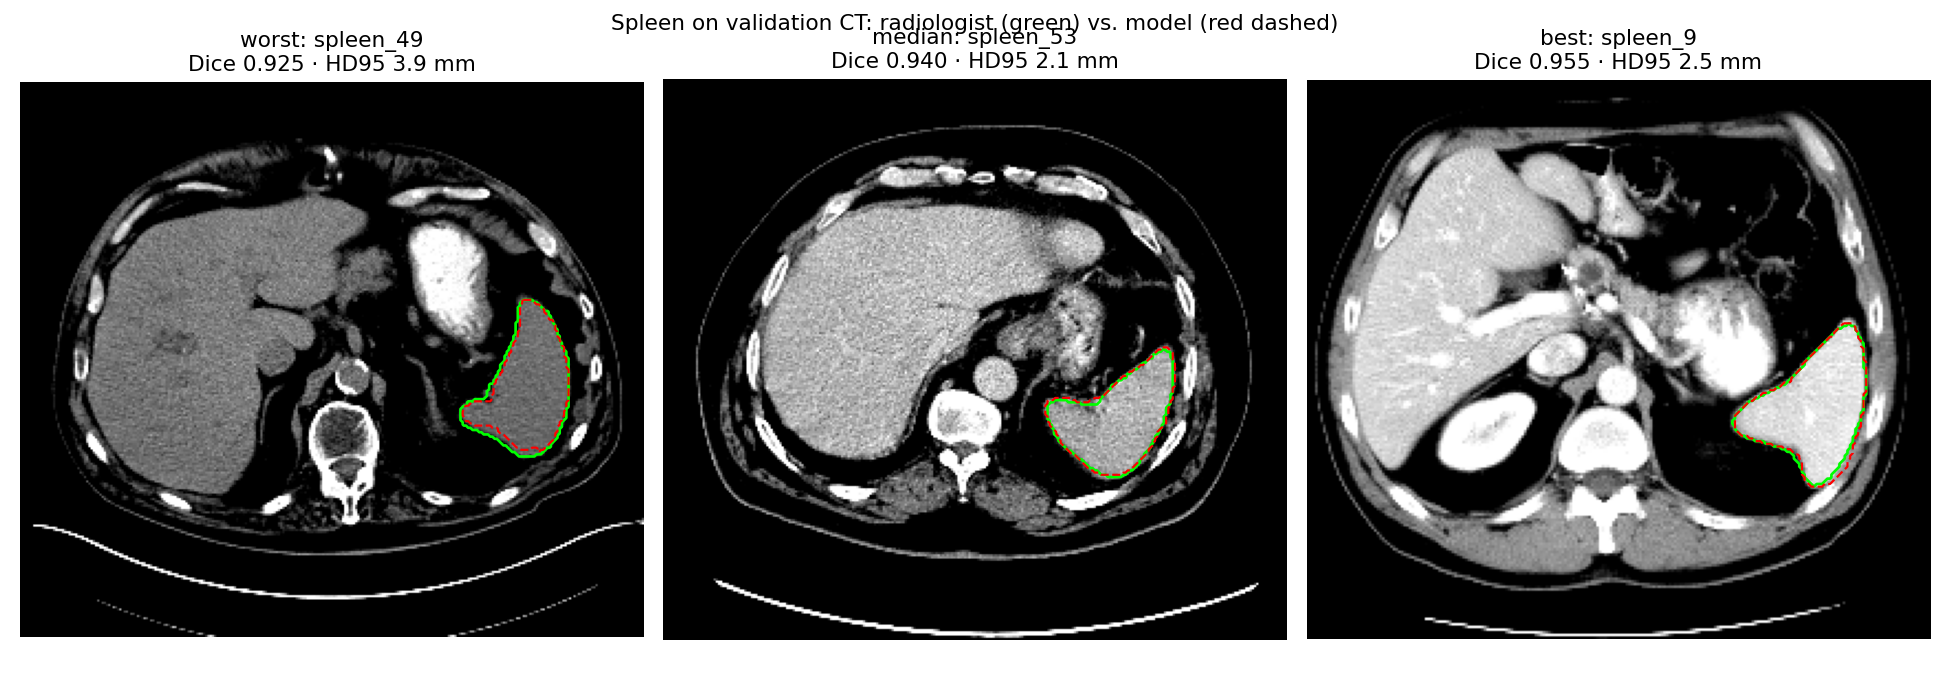
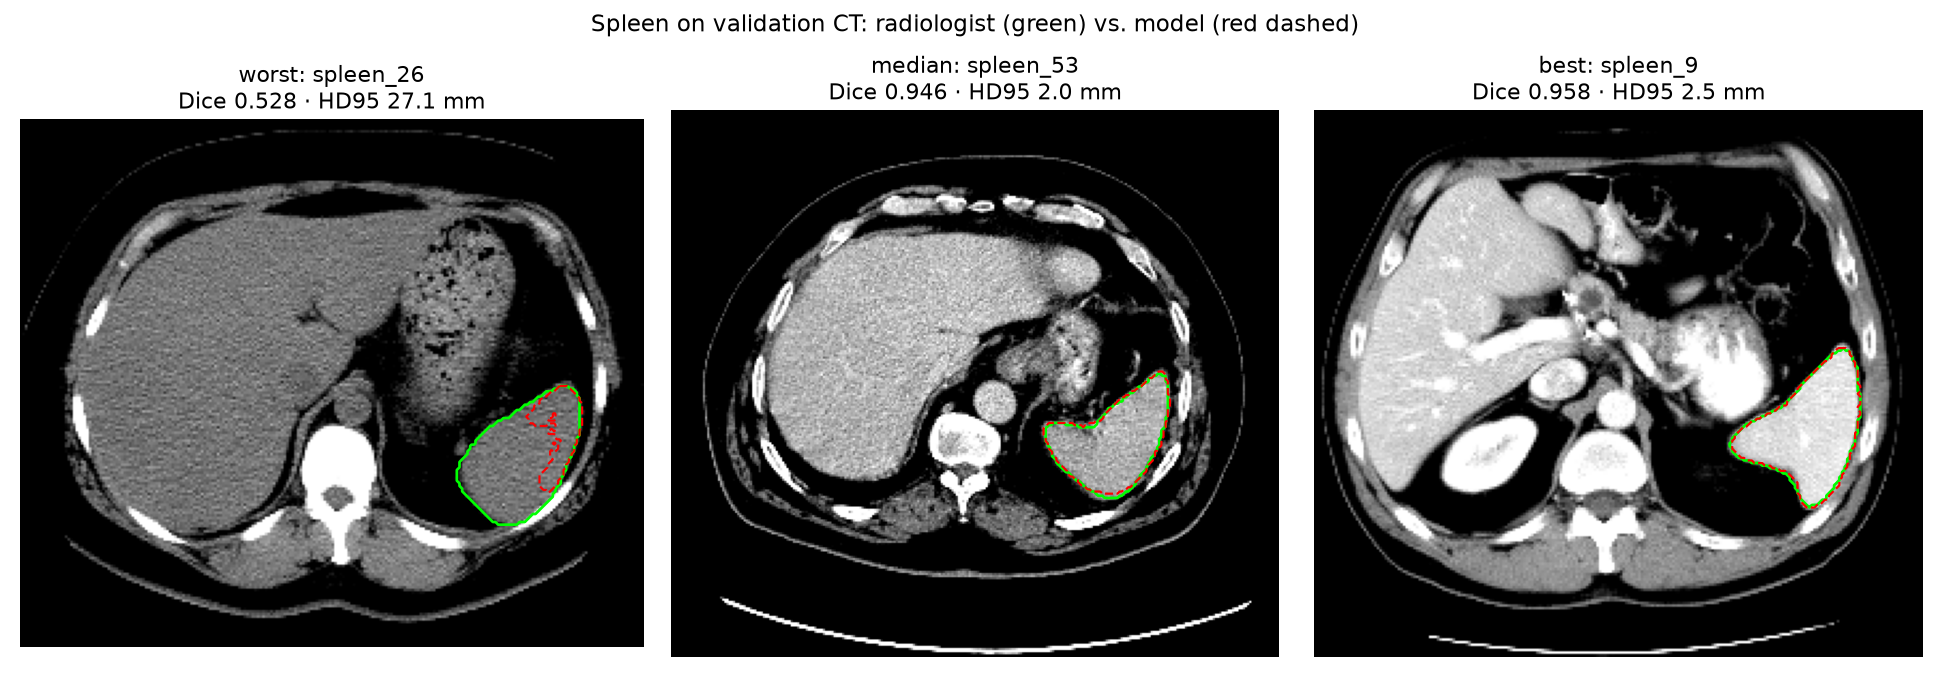
Spleen: report the final-epoch model (no checkpoint selection): Dice 0.885 / HD95 6.7 mm, median 0.944, spleen_26 fails at 0.53; the best-epoch 0.939 is kept only as a labelled, optimistic comparison
- the best epoch was selected on the same 8 validation CTs it was scored on
- add 5-fold cross-validation over all 41 labelled CTs (medimg.seg.cv_seg): fixed schedule, SWA of the second half
  with BatchNorm recomputed, no selection; kaggle_push --seg-cv; notebook run modes (full / eval_only / seg_cv)
- figures_seg --ckpt final|best; the learning curve marks the final (reported) and best (selected) epochs

diff --git a/src/medimg/seg/cv_seg.py b/src/medimg/seg/cv_seg.py
@@ -1,0 +1,167 @@
+"""5-fold cross-validation of the spleen 3D U-Net over all 41 labelled MSD Task09 CTs, with no checkpoint selection.
+
+    python -m medimg.seg.cv_seg            (Kaggle: `python scripts/kaggle_push.py --seg-cv`)
+
+Why: with a single 33/8 split, the "best epoch" is picked on the same 8 CTs it is scored on. That gave Dice 0.939, while
+the final epoch of the same run scored 0.885 (one case fell from 0.93 to 0.53). Here every CT is scored exactly once, by
+a model that never trained on it and was never selected on it:
+  * each fold trains for a fixed `epochs` (no validation during training);
+  * the scored weights are the stochastic weight average (SWA) of the second half of training, with BatchNorm
+    statistics recomputed on training patches afterwards, which is steadier than any single last epoch;
+  * largest-connected-component post-processing, the same as figures_seg.
+Writes reports/seg_cv_per_case.csv (one row per CT) and reports/seg_cv.json (mean, SD, median, bootstrap CI).
+A finished fold is saved to models/seg_cv_fold{k}.pt and skipped on re-run, so a killed session resumes.
+"""
+from __future__ import annotations
+
+import json
+import time
+
+import numpy as np
+import pandas as pd
+import torch
+from monai.apps import DecathlonDataset
+from monai.data import DataLoader, PersistentDataset
+from monai.data.utils import json_hashing
+from monai.inferers import sliding_window_inference
+from monai.losses import DiceCELoss
+from monai.metrics import compute_dice, compute_hausdorff_distance
+from monai.networks.utils import one_hot
+from torch.optim.swa_utils import AveragedModel
+
+from medimg import ROOT, load_params, seed_everything
+from medimg.seg.figures_seg import keep_largest
+from medimg.seg.train_seg import build_model, transforms
+
+
+def all_cases(sp: dict, seed: int) -> list[dict]:
+    """Every labelled case once: MONAI's training + validation sections partition the 41 labelled volumes."""
+    root = ROOT / sp["root_dir"]
+    root.mkdir(parents=True, exist_ok=True)
+    common = dict(root_dir=str(root), task=sp["task"], val_frac=0.2, seed=seed, cache_rate=0.0)
+    first = DecathlonDataset(section="training", download=not (root / sp["task"]).exists(), **common).data
+    cases = first + DecathlonDataset(section="validation", download=False, **common).data
+    return sorted(cases, key=lambda c: c["image"])
+
+
+def folds(n: int, k: int, seed: int) -> list[np.ndarray]:
+    return np.array_split(np.random.default_rng(seed).permutation(n), k)
+
+
+@torch.no_grad()
+def recompute_bn(model: torch.nn.Module, loader, device, batches: int) -> None:
+    """Averaged weights need BatchNorm statistics of their own (torch.optim.swa_utils.update_bn, for dict batches)."""
+    bns = [m for m in model.modules() if isinstance(m, torch.nn.modules.batchnorm._BatchNorm)]
+    for m in bns:
+        m.reset_running_stats()
+        m.momentum = None  # cumulative average over all batches below
+    model.train()
+    for i, batch in enumerate(loader):
+        if i >= batches:
+            break
+        model(batch["image"].to(device))
+    model.eval()
+
+
+def score(pred: torch.Tensor, y1: torch.Tensor, spacing) -> tuple[float, float]:
+    p1 = one_hot(pred, 2)
+    return (compute_dice(p1, y1, include_background=False).item(),
+            compute_hausdorff_distance(p1, y1, include_background=False, percentile=95, spacing=spacing).item())
+
+
+def run_fold(k: int, train_cases: list[dict], test_cases: list[dict], sp: dict, cv: dict, device) -> list[dict]:
+    amp = sp["amp"] and device.type == "cuda"
+    cache = ROOT / "data" / "processed" / "msd_cache"
+    train_ds = PersistentDataset(train_cases, transforms(sp, True), cache_dir=cache / "train", hash_transform=json_hashing)
+    test_ds = PersistentDataset(test_cases, transforms(sp, False), cache_dir=cache / "val", hash_transform=json_hashing)
+    train_dl = DataLoader(train_ds, batch_size=sp["batch_size"], shuffle=True, num_workers=sp["num_workers"])
+
+    model = build_model().to(device)
+    swa = AveragedModel(model)
+    loss_fn = DiceCELoss(to_onehot_y=True, softmax=True)
+    optimizer = torch.optim.AdamW(model.parameters(), lr=sp["lr"], weight_decay=1e-5)
+    scheduler = torch.optim.lr_scheduler.CosineAnnealingLR(optimizer, T_max=cv["epochs"])
+    scaler = torch.amp.GradScaler(enabled=amp)
+    swa_start = int(cv["epochs"] * cv["swa_start_frac"])
+    for epoch in range(cv["epochs"]):
+        model.train()
+        t0, total = time.time(), 0.0
+        for batch in train_dl:
+            x, y = batch["image"].to(device), batch["label"].to(device)
+            optimizer.zero_grad(set_to_none=True)
+            with torch.autocast(device.type, enabled=amp):
+                loss = loss_fn(model(x), y)
+            scaler.scale(loss).backward()
+            scaler.step(optimizer)
+            scaler.update()
+            total += loss.item()
+        scheduler.step()
+        if epoch >= swa_start:
+            swa.update_parameters(model)
+        if epoch % 25 == 0 or epoch == cv["epochs"] - 1:
+            print(json.dumps({"fold": k, "epoch": epoch, "train_loss": round(total / len(train_dl), 4),
+                              "epoch_sec": round(time.time() - t0, 1)}), flush=True)
+    recompute_bn(swa.module, train_dl, device, batches=cv["bn_batches"])
+
+    rows = []
+    with torch.no_grad():
+        for variant, net in (("swa", swa.module), ("final", model.eval())):
+            for item, case in zip(test_ds, test_cases):
+                x = item["image"][None].to(device).float()
+                y1 = one_hot(item["label"][None].to(device).long(), 2)
+                with torch.autocast(device.type, enabled=amp):
+                    raw = sliding_window_inference(x, sp["roi_size"], 4, net, overlap=0.5).argmax(1, keepdim=True)
+                pred = torch.from_numpy(keep_largest(raw[0, 0].cpu().numpy()))[None, None].to(device)
+                (dice_raw, hd_raw), (dice, hd95) = score(raw, y1, sp["pixdim"]), score(pred, y1, sp["pixdim"])
+                rows.append({"fold": k, "model": variant, "case": case["image"].split("/")[-1].split("\\")[-1].split(".")[0],
+                             "dice": round(dice, 4), "hd95_mm": round(hd95, 2),
+                             "dice_raw": round(dice_raw, 4), "hd95_raw_mm": round(hd_raw, 2)})
+    torch.save({"state_dict": swa.module.state_dict(), "rows": rows, "test_cases": [c["image"] for c in test_cases]},
+               ROOT / "models" / f"seg_cv_fold{k}.pt")
+    return rows
+
+
+def bootstrap_ci(x: np.ndarray, iters: int = 2000, seed: int = 0) -> list[float]:
+    rng = np.random.default_rng(seed)
+    means = [rng.choice(x, len(x)).mean() for _ in range(iters)]
+    return [round(float(np.percentile(means, 2.5)), 4), round(float(np.percentile(means, 97.5)), 4)]
+
+
+def main() -> None:
+    p = load_params()
+    sp, cv = p["segmentation"], p["segmentation_cv"]
+    seed_everything(p["seed"])
+    device = torch.device("cuda" if torch.cuda.is_available() else "cpu")
+    cases = all_cases(sp, p["seed"])
+    (ROOT / "models").mkdir(exist_ok=True)
+    rows = []
+    for k, test_idx in enumerate(folds(len(cases), cv["folds"], p["seed"])):
+        done = ROOT / "models" / f"seg_cv_fold{k}.pt"
+        if done.exists():
+            print(f"fold {k}: already done, reusing {done.name}")
+            rows += torch.load(done, map_location="cpu", weights_only=False)["rows"]
+            continue
+        test = set(test_idx.tolist())
+        rows += run_fold(k, [c for i, c in enumerate(cases) if i not in test], [cases[i] for i in sorted(test)],
+                         sp, cv, device)
+
+    df = pd.DataFrame(rows)
+    out = ROOT / "reports"
+    out.mkdir(exist_ok=True)
+    df.to_csv(out / "seg_cv_per_case.csv", index=False)
+    summary = {"n_cases": int(df[df.model == "swa"].shape[0]), "folds": cv["folds"], "epochs_per_fold": cv["epochs"],
+               "selection": "none (fixed schedule; SWA of the second half, BN recomputed)",
+               "postprocessing": "largest connected component"}
+    for variant, g in df.groupby("model"):
+        d = g.dice.to_numpy()
+        summary[variant] = {"dice_mean": round(float(d.mean()), 4), "dice_sd": round(float(d.std(ddof=1)), 4),
+                            "dice_median": round(float(np.median(d)), 4), "dice_min": round(float(d.min()), 4),
+                            "dice_ci95": bootstrap_ci(d), "hd95_mm_median": round(float(g.hd95_mm.median()), 2),
+                            "dice_raw_mean": round(float(g.dice_raw.mean()), 4),
+                            "cases_below_0.9": int((d < 0.9).sum())}
+    (out / "seg_cv.json").write_text(json.dumps(summary, indent=2))
+    print(json.dumps(summary, indent=2))
+
+
+if __name__ == "__main__":
+    main()

diff --git a/src/medimg/seg/figures_seg.py b/src/medimg/seg/figures_seg.py
@@ -1,6 +1,10 @@
 """Figures for the spleen model: learning curve and predicted vs. radiologist outlines on validation CTs.
 
-    python -m medimg.seg.figures_seg       (after train_seg; reads models/seg_unet3d.pt and reports/seg_history.csv)
+    python -m medimg.seg.figures_seg               final-epoch model (models/seg_last.pt): the headline number
+    python -m medimg.seg.figures_seg --ckpt best   best-validation-epoch model (models/seg_unet3d.pt), *_best outputs
+
+Why the final epoch is the headline: the best epoch is chosen on these same 8 validation CTs, so its score is biased
+upwards (selection on the evaluation set). The fixed 600-epoch schedule never looks at them.
 
 Per-case Dice/HD95 go to reports/seg_per_case.csv so the worst case can be discussed, not just the mean.
 Each case is scored twice: the raw argmax and after keeping only the largest connected component (the spleen is one
@@ -8,6 +12,7 @@ organ, so any separate blob is a false positive). HD95 is very sensitive to such
 """
 from __future__ import annotations
 
+import argparse
 import json
 from pathlib import Path
 
@@ -42,20 +47,27 @@ def keep_largest(mask: np.ndarray) -> np.ndarray:
 
 
 def learning_curve(history: pd.DataFrame) -> None:
+    """Validation Dice per epoch, marking the final epoch (reported) and the best epoch (selected, optimistic)."""
     fig, ax = plt.subplots(1, 2, figsize=(11, 4))
     ax[0].plot(history.epoch, history.train_loss)
     ax[0].set(xlabel="epoch", ylabel="Dice + CE loss", title="Training loss")
     val = history.dropna(subset=["val_dice"])
     ax[1].plot(val.epoch, val.val_dice, marker="o", ms=3)
-    best = val.loc[val.val_dice.idxmax()]
-    ax[1].axvline(best.epoch, color="grey", ls="--", lw=1)
-    ax[1].set(xlabel="epoch", ylabel="Dice", ylim=(0, 1), title=f"Validation Dice (best {best.val_dice:.3f} @ {int(best.epoch)})")
+    best, last = val.loc[val.val_dice.idxmax()], val.iloc[-1]
+    ax[1].axvline(best.epoch, color="grey", ls="--", lw=1, label=f"best {best.val_dice:.3f} @ {int(best.epoch)} (selected)")
+    ax[1].axvline(last.epoch, color="black", lw=1, label=f"final {last.val_dice:.3f} @ {int(last.epoch)} (reported)")
+    ax[1].legend(loc="lower right", fontsize=8)
+    ax[1].set(xlabel="epoch", ylabel="Dice (raw, no post-processing)", ylim=(0, 1), title="Validation Dice")
     fig.tight_layout()
     fig.savefig(FIG / "seg_learning_curve.png", dpi=150)
     plt.close(fig)
 
 
 def main() -> None:
+    ap = argparse.ArgumentParser()
+    ap.add_argument("--ckpt", choices=["final", "best"], default="final")
+    args = ap.parse_args()
+    suffix = "" if args.ckpt == "final" else "_best"
     p = load_params()
     sp = p["segmentation"]
     device = torch.device("cuda" if torch.cuda.is_available() else "cpu")
@@ -63,7 +75,12 @@ def main() -> None:
     learning_curve(pd.read_csv(ROOT / "reports" / "seg_history.csv"))
 
     model = build_model().to(device).eval()
-    model.load_state_dict(torch.load(ROOT / "models" / "seg_unet3d.pt", map_location=device)["state_dict"])
+    if args.ckpt == "final":  # the resume checkpoint train_seg writes after every epoch; after training = last epoch
+        state = torch.load(ROOT / "models" / "seg_last.pt", map_location=device, weights_only=False)
+        model.load_state_dict(state["model"])
+        print(f"final-epoch model: epoch {state['epoch']}")
+    else:
+        model.load_state_dict(torch.load(ROOT / "models" / "seg_unet3d.pt", map_location=device)["state_dict"])
     split = DecathlonDataset(str(ROOT / sp["root_dir"]), sp["task"], "validation", download=False,
                              val_frac=0.2, seed=p["seed"], cache_rate=0.0).data
     ds = PersistentDataset(split, transforms(sp, False), cache_dir=ROOT / "data" / "processed" / "msd_cache" / "val",
@@ -92,12 +109,13 @@ def main() -> None:
             panels.append((rows[-1], img[..., z], gt[..., z], pr[..., z]))
 
     per_case = pd.DataFrame(rows).sort_values("dice")
-    per_case.to_csv(ROOT / "reports" / "seg_per_case.csv", index=False)
+    per_case.to_csv(ROOT / "reports" / f"seg_per_case{suffix}.csv", index=False)
     print(per_case.to_string(index=False))
     summary = {k: round(float(per_case[k].mean()), 4) for k in ("dice", "hd95_mm", "dice_raw", "hd95_raw_mm")}
     summary |= {"dice_min": float(per_case.dice.min()), "n_cases": len(per_case),
-                "postprocessing": "largest connected component"}
-    (ROOT / "reports" / "seg_postproc.json").write_text(json.dumps(summary, indent=2))
+                "postprocessing": "largest connected component",
+                "checkpoint": "final epoch (no selection)" if args.ckpt == "final" else "best validation epoch (optimistic)"}
+    (ROOT / "reports" / f"seg_postproc{suffix}.json").write_text(json.dumps(summary, indent=2))
     print(json.dumps(summary))
 
     # Best, median and worst validation case, so the figure is honest about failures too.
@@ -116,7 +134,7 @@ def main() -> None:
         ax.axis("off")
     fig.suptitle("Spleen on validation CT: radiologist (green) vs. model (red dashed)", fontsize=13)
     fig.tight_layout(rect=(0, 0, 1, 0.93))  # keep the suptitle clear of the panel titles
-    fig.savefig(FIG / "seg_examples.png", dpi=130)
+    fig.savefig(FIG / f"seg_examples{suffix}.png", dpi=130)
     plt.close(fig)
 
 

diff --git a/scripts/kaggle_push.py b/scripts/kaggle_push.py
@@ -8,6 +8,7 @@ kernel version.
     python scripts/kaggle_push.py            # upload source + start the run
     python scripts/kaggle_push.py --status   # check the run
     python scripts/kaggle_push.py --eval-only  # re-evaluate models/classifier.pt, no training
+    python scripts/kaggle_push.py --seg-cv     # spleen 5-fold cross-validation only
     python scripts/kaggle_push.py --log      # print the run log
     python scripts/kaggle_push.py --fetch    # download outputs to kaggle_out/
 
@@ -73,14 +74,18 @@ def push_checkpoint(api, user, stage):
     push_dataset(api, user, MODELS_SLUG, "aiml02 released checkpoint", stage, "classifier.pt")
 
 
-def push_kernel(api, user, stage, eval_only=False):
+def push_kernel(api, user, stage, mode="full"):
     nb = stage / "kaggle_train.ipynb"
-    nb.write_bytes((ROOT / "notebooks" / "kaggle_train.ipynb").read_bytes())
+    text = (ROOT / "notebooks" / "kaggle_train.ipynb").read_text(encoding="utf-8")
+    marker = "os.environ['AIML02_MODE'] = 'full'"
+    if marker not in text:
+        raise SystemExit("notebook has no AIML02_MODE cell")
+    nb.write_text(text.replace(marker, f"os.environ['AIML02_MODE'] = '{mode}'"), encoding="utf-8")
     (stage / "kernel-metadata.json").write_text(json.dumps({
         "id": f"{user}/{KERNEL_SLUG}", "title": KERNEL_SLUG, "code_file": nb.name,
         "language": "python", "kernel_type": "notebook", "is_private": True,
         "enable_gpu": True, "enable_internet": True,
-        "dataset_sources": [f"{user}/{SRC_SLUG}"] + ([f"{user}/{MODELS_SLUG}"] if eval_only else []),
+        "dataset_sources": [f"{user}/{SRC_SLUG}"] + ([f"{user}/{MODELS_SLUG}"] if mode == "eval_only" else []),
         "competition_sources": [COMPETITION],
     }))
     resp = api.kernels_push(str(stage))
@@ -107,8 +112,11 @@ def main():
     ap.add_argument("--status", action="store_true")
     ap.add_argument("--fetch", action="store_true")
     ap.add_argument("--log", action="store_true", help="print the run log")
-    ap.add_argument("--eval-only", action="store_true",
-                    help="upload models/classifier.pt and only re-run data prep + evaluation (no training)")
+    modes = ap.add_mutually_exclusive_group()
+    modes.add_argument("--eval-only", action="store_true",
+                       help="upload models/classifier.pt and only re-run data prep + evaluation (no training)")
+    modes.add_argument("--seg-cv", action="store_true",
+                       help="only the spleen 5-fold cross-validation (medimg.seg.cv_seg); no classifier")
     args = ap.parse_args()
 
     api = KaggleApi()
@@ -129,7 +137,8 @@ def main():
             push_source(api, user, Path(src))
             if args.eval_only:
                 push_checkpoint(api, user, Path(mdl))
-            push_kernel(api, user, Path(ker), args.eval_only)
+            mode = "eval_only" if args.eval_only else "seg_cv" if args.seg_cv else "full"
+            push_kernel(api, user, Path(ker), mode)
 
 
 if __name__ == "__main__":

diff --git a/tests/test_core.py b/tests/test_core.py
@@ -140,3 +140,20 @@ def test_checkpoint_roundtrip_with_numpy_metric(tmp_path):
     save_checkpoint(model, 64, tmp_path / "c.pt", val_auroc=np.float64(0.89), epoch=np.int64(7))
     _, ckpt = load_checkpoint(tmp_path / "c.pt")
     assert ckpt["val_auroc"] == pytest.approx(0.89) and type(ckpt["epoch"]) is int
+
+
+def test_cv_folds_partition_and_bn_recompute():
+    from medimg.seg.cv_seg import bootstrap_ci, folds, recompute_bn
+
+    parts = folds(41, 5, seed=0)
+    assert sorted(i for p in parts for i in p.tolist()) == list(range(41)) and len(parts) == 5
+
+    # Averaged weights get BatchNorm statistics recomputed from (dict) training batches.
+    net = torch.nn.Sequential(torch.nn.Conv3d(1, 2, 1), torch.nn.BatchNorm3d(2))
+    loader = [{"image": torch.full((2, 1, 4, 4, 4), 3.0) + torch.randn(2, 1, 4, 4, 4) * 0.1} for _ in range(5)]
+    recompute_bn(net, loader, "cpu", batches=5)
+    bn = net[1]
+    assert not net.training and bn.momentum is None and int(bn.num_batches_tracked) == 5
+
+    lo, hi = bootstrap_ci(np.array([0.9, 0.92, 0.95, 0.5, 0.94]))
+    assert 0.5 <= lo < hi <= 0.95

diff --git a/docs/MODEL_CARD.md b/docs/MODEL_CARD.md
@@ -83,11 +83,20 @@ Evaluated with sliding-window inference using Dice and HD95. Post-processing kee
 since the spleen is a single organ. Raw and post-processed scores are both reported (`reports/seg_postproc.json`,
 `reports/seg_per_case.csv`), because a few distant false-positive blobs inflate HD95 by tens of millimetres.
 
-**Results (8 validation CTs):** trained for 600 epochs on a Kaggle T4 (best epoch 224), it reaches Dice **0.939** and HD95
-**3.2 mm** after post-processing (raw 0.930 / 22.6 mm). Every case scores at least 0.925. The same code trained for 200 epochs
-on a 4 GB laptop GTX 1650 reached 0.912 / 6.1 mm with a worst case of 0.770 (`reports/seg_laptop_200ep/`), so the longer
-schedule mostly fixed the hardest case. Post-processing matters most for HD95: on spleen_53 it removes a distant
-false-positive blob and takes HD95 from 155 mm to 2.1 mm.
+**Results (8 validation CTs, final epoch, no checkpoint selection):** after 600 epochs on a Kaggle T4, mean Dice
+**0.885** and HD95 **6.7 mm** after post-processing (raw 0.881 / 25.7 mm). The median is 0.944 and 6 of 8 CTs score at
+least 0.94, but spleen_26 fails at 0.53 and spleen_49 reaches 0.86 (`reports/seg_per_case.csv`).
+
+**Why the final epoch and not the best one:** the best of the 120 validation checkpoints (epoch 224) scores 0.939, with
+spleen_26 at 0.93 (`reports/seg_postproc_best.json`). That checkpoint was chosen *on these same 8 CTs*, so its score is
+biased upwards. The gap between 0.939 and 0.885, and one case swinging from 0.93 to 0.53 between epochs, show that a single
+8-case split cannot support a precise number either way. **5-fold cross-validation** (`medimg.seg.cv_seg`) therefore scores
+every one of the 41 labelled CTs exactly once, with a model that never trained on it, at a fixed schedule with
+weight averaging (SWA) and no selection. Its mean ± SD will replace this paragraph's numbers.
+
+Post-processing matters most for HD95: on spleen_53 it removes a distant false-positive blob and takes HD95 from 154 mm to
+2.0 mm. A 200-epoch run on a 4 GB laptop GTX 1650 is kept for reference in `reports/seg_laptop_200ep/` (best-epoch
+selection, so optimistic in the same way).
 
 **Context:** MONAI's reference bundle for this task reports a mean Dice of about 0.96 on its own split. The splits differ,
 so the numbers are not directly comparable, and with 8 validation volumes one case moves the mean by about 0.01.

diff --git a/README.md b/README.md
@@ -28,7 +28,7 @@ released classifier without retraining it: `python scripts/kaggle_push.py --eval
 | ECE before → after temperature scaling | 0.073 → 0.071 (T = 1.29; the model was already close to calibrated) |
 | Grad-CAM pointing game (hit inside radiologist box) | 54 % of positive test images (mean IoU 0.24) |
 | Shortcut check: AUROC from view / view+sex+age alone (no pixels) | 0.707 / 0.725, so the image adds about +0.16 AUROC over metadata |
-| Spleen Dice / HD95 (mm), 8 validation CTs, largest-component post-processing | **0.939 / 3.2** (raw 0.930 / 22.6; worst case 0.925). 600 epochs on a Kaggle T4, best epoch 224. The same code for 200 epochs on the laptop GTX 1650 reaches 0.912 / 6.1 (`reports/seg_laptop_200ep/`). MSD has no public test labels, so this is validation |
+| Spleen Dice / HD95 (mm), 8 validation CTs, largest-component post-processing, **final epoch (no checkpoint selection)** | **0.885 / 6.7** (median 0.944; 6 of 8 CTs ≥ 0.94; worst case spleen_26 0.53). 600 epochs on a Kaggle T4. Picking the best of 120 validation checkpoints would report 0.939, but that selects on the same 8 CTs, so it is optimistic. 5-fold cross-validation over all 41 CTs is in progress |
 
 Subgroup performance (sex, age band, AP vs PA view) is in `reports/subgroups.csv` and discussed in the
 [model card](docs/MODEL_CARD.md). In short: the model beats the metadata-only baseline *within* AP films (0.838) and
